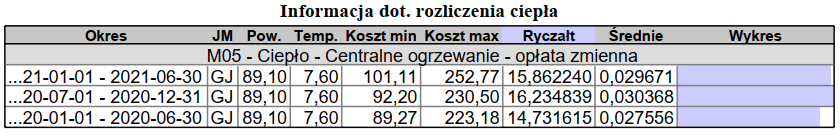
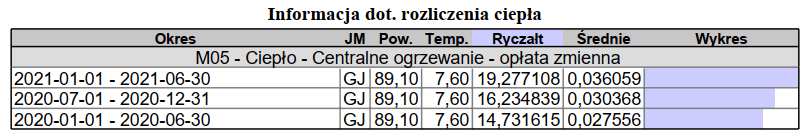
poprawka rozliczenia co

diff --git a/ogolne/wydruki/_posts/2022-11-16-Rozliczeniaciepla.md b/ogolne/wydruki/_posts/2022-11-16-Rozliczeniaciepla.md
@@ -15,16 +15,23 @@ Aby określić parametry pozwalające wyliczyć dodatkowe informacje w sprawie r
 - Pole `Grupa liczników` > wybieramy grupę liczników zawierającą liczniki uczestniczące w rozliczeniu ciepła.
 - Pole `Struktura` > w większości przypadków wybieramy cały zasób, jeśli chociaż jeden z parametrów ustalanych w dalszych polach jest inny dla danej grupy lokali, należy je rozdzielić, dodając dwie lub więcej pozycji na każdą ze struktur.
 - Pole `Od` > ustalamy datę obowiązywania wprowadzonej pozycji. Zazwyczaj będzie to pierwszy dzień okresu rozliczeniowego (na przykład 1 stycznia lub 1 lipca). Pozycję można dodać z datą przeszłą, dzięki temu zyskamy możliwość porównywania obecnych rozliczeń do dużo starszych okresów rozliczeniowych.
-- Pole `Typ` > ustawiamy `Ciepłomierze` lub `Podzielniki` w zależności, jakie urządzenie jest zainstalowane w lokalach danej struktury.
+- Pole `Typ` > ustawiamy `Ciepłomierze` lub `Podzielniki` w zależności, jakie urządzenie jest zainstalowane w lokalach danej struktury. W przypadku ryczałtu ustawiamy `Ciepłomierze`.
 - Pole `Koszt GJ` > wybieramy stawkę, w której jest zawarta cena GJ ciepła. Dodajemy ją zawsze niezależnie od jednostki, w której liczą liczniki/podzielniki ciepła.
 - Pole `Współczynnik struktury` > dotyczy tylko podzielników, wybieramy daną, w której są zawarte współczynniki wyrównawcze. Można pozostawić to pole puste, wtedy współczynnik będzie pominięty.
 - Pole `Powierzchnia` > ustawiamy daną, która reprezentuje powierzchnię, która zostanie wykorzystana do wyliczenia średniej ilości jednostek ciepła na jednostkę powierzchni na miesiąc.
-- Pole `Minimum GJ/m2` > dotyczy tylko podzielników, minimalny koszt ciepła, wyrażony w GJ/m2/miesiąc.
-- Pole `Maksimum GJ/m2` > dotyczy tylko podzielników, maksymalny koszt ciepła, wyrażony w GJ/m2/miesiąc.
+- Pole `Minimum GJ/m2` > dotyczy tylko podzielników, minimalny koszt ciepła, wyrażony w GJ/m2/miesiąc (nie kwota). Wartość tego pola zostanie pomnożona przez koszt GJ na wydrukach.
+- Pole `Maksimum GJ/m2` > dotyczy tylko podzielników, maksymalny koszt ciepła, wyrażony w GJ/m2/miesiąc (nie kwota). Wartość tego pola zostanie pomnożona przez koszt GJ na wydrukach.
 - Pole `Temperatura` > można pozostawić puste lub uzupełnić wartość wynikającą z normy: [https://nowoczesnyzarzadca.pl/2022/09/19/rozliczenia-ciepla](https://nowoczesnyzarzadca.pl/2022/09/19/rozliczenia-ciepla.html). Parametr ten nie jest brany do obliczeń, jest tylko pokazywany na wydruku.
 - Kliknąć `Dodaj`.
 
-Dodajemy więcej pozycji, jeśli chociaż jeden z parametrów ustalanych w polach jest inny dla danej grupy lokali. Pozycje zazwyczaj ustalamy tylko raz, jeśli żaden z parametrów się nie zmienia. Wprowadzone pozycje można dowolnie edytować. Pozycje należy zdefiniować zawsze, nawet jeśli nie mamy liczników i podzielników.
+Dodajemy więcej pozycji, jeśli chociaż jeden z parametrów ustalanych w polach jest inny dla danej grupy lokali. Pozycje zazwyczaj ustalamy tylko raz, jeśli żaden z parametrów się nie zmienia. Wprowadzone pozycje można dowolnie edytować. 
+
+Brak liczników:
+
+- Wyżej wymienioną pozycję pozycje należy zdefiniować zawsze, nawet jeśli nie mamy liczników i podzielników.
+- Trzeba zdefiniować termin rozliczenia ciepła w menu `Elementy` > `Terminy rozliczenia liczników`.
+- Należy dodać stawkę do zasobu, w której podamy cenę jednostkową ciepła i ustawić ja w polu `Koszt GJ`.
+- Algorytm rozliczający ciepło powinien mieć część licznikową, jeśli nie ma, prosimy o kontakt z działem wsparcia.
 
 ![Rozliczenia ciepła parametry](rozl_co_parametry.gif)
 
